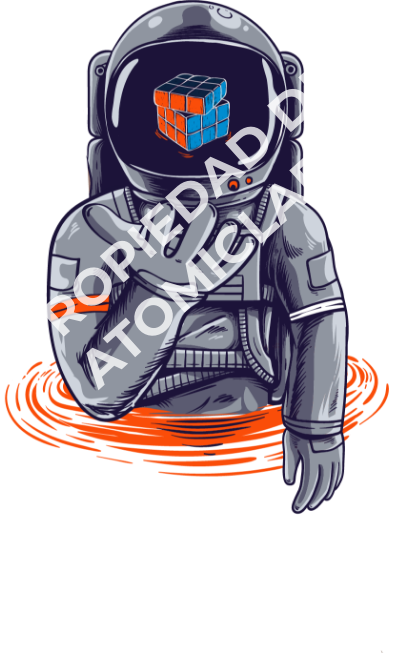
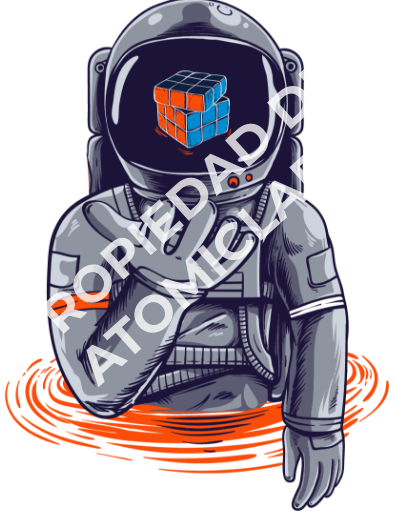
*Modified size of the images [astroanuts] in each step

diff --git a/src/styles/AppStyles.css b/src/styles/AppStyles.css
@@ -28,6 +28,11 @@ body, html {
     cursor: pointer;
 }
 
+.image-dimension {
+    height: 400px;
+    width: 350px;
+}
+
 .img-mini-size{
     width: 40px;
     height: 40px;
